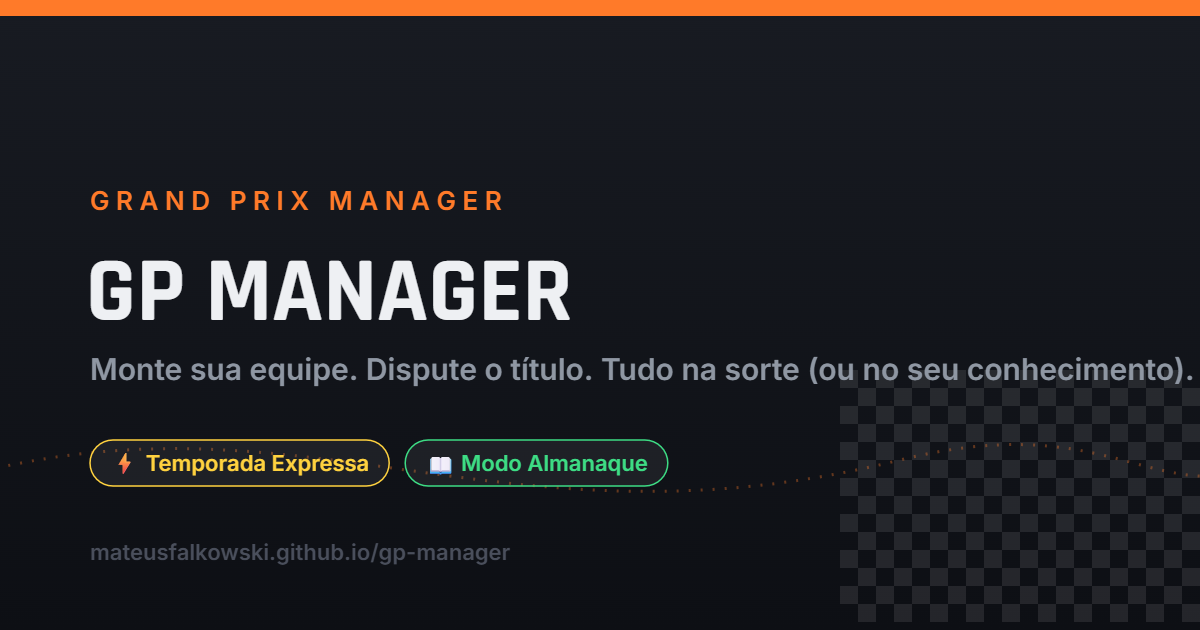
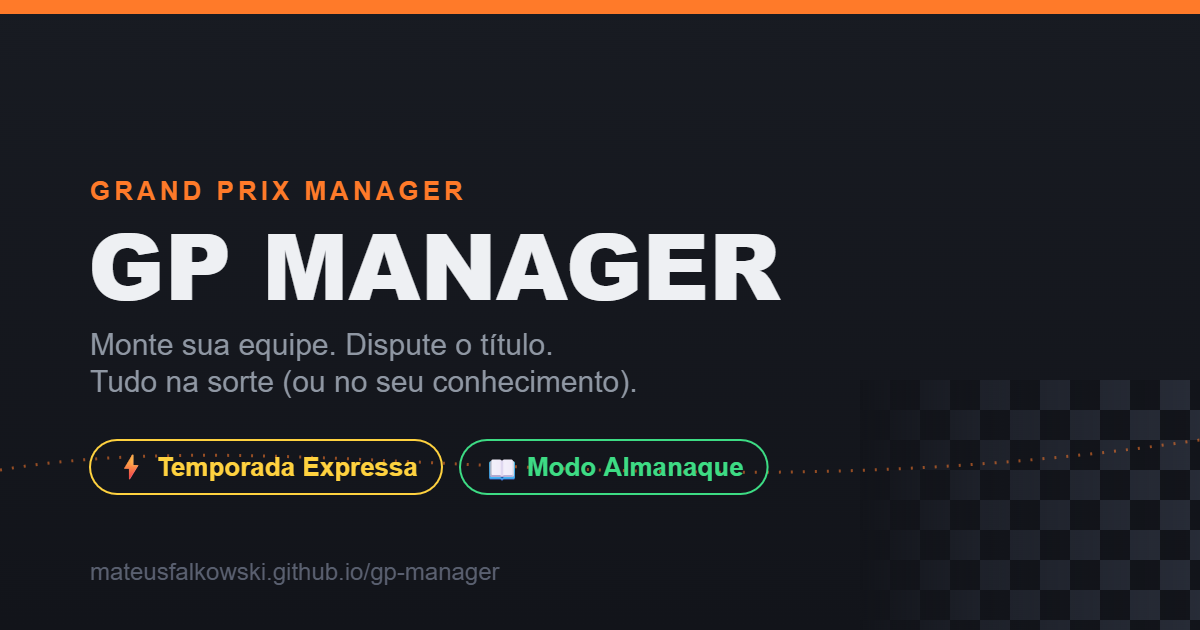
Fix small difficulty-button touch targets and broken OG image
- season-btn now has a 44px min-height (was 39px, just under the
  recommended minimum tap-target size on mobile)
- Regenerate og-image.png: the previous one had an unpainted
  transparent region on its right third (visible as a checkerboard
  in image viewers, would show broken on link previews); redrawn with
  the canvas fully filled, using a deliberate faded checkered-flag
  motif in that corner instead

diff --git a/index.html b/index.html
@@ -163,7 +163,8 @@
 #gpm .season-label{font-size:11px;text-transform:uppercase;letter-spacing:.14em;color:var(--text-dim);margin-bottom:6px;}
 #gpm .season-btns{display:flex;gap:8px;}
 #gpm .season-btn{
-  flex:1;text-align:center;padding:9px 6px;border-radius:8px;background:var(--surface);
+  flex:1;text-align:center;padding:9px 6px;min-height:44px;display:flex;align-items:center;justify-content:center;
+  border-radius:8px;background:var(--surface);
   border:1px solid var(--border);cursor:pointer;font-family:'Rajdhani',sans-serif;font-weight:700;
   font-size:15px;color:var(--text-dim);transition:all .15s ease;
 }
